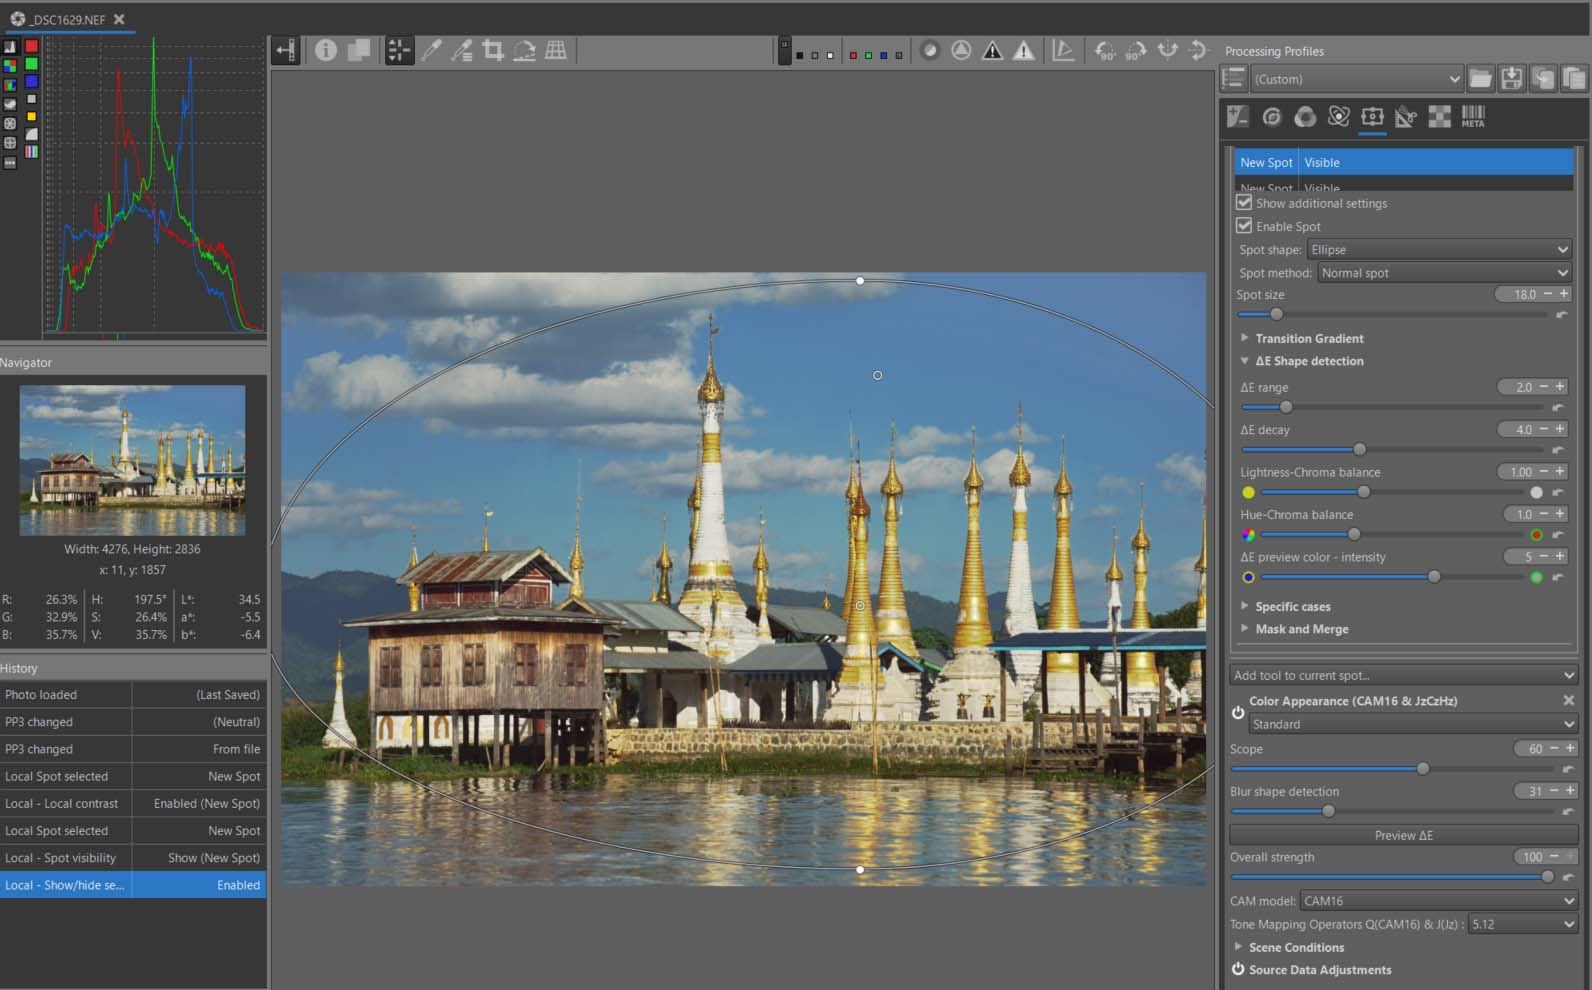
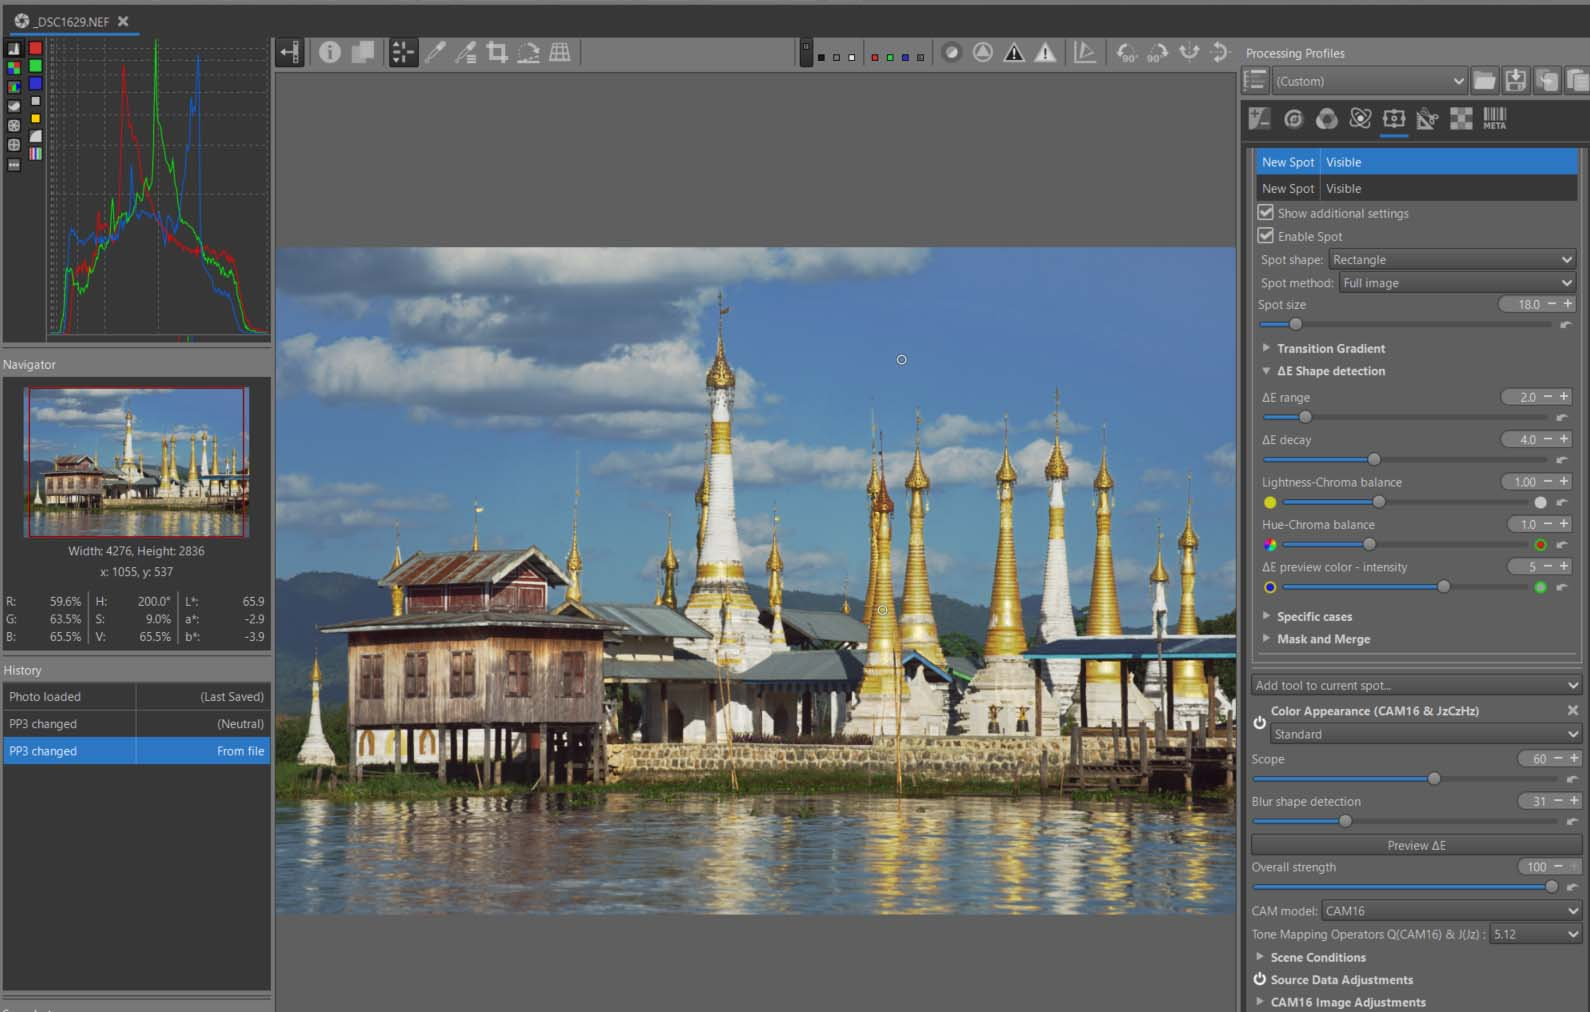
Small changes

diff --git a/content/Tutorials/index.md b/content/Tutorials/index.md
@@ -1776,7 +1776,7 @@ The 'Dehaze' system designed by Ingo Weirich (thanks to him) suggests in some ca
 
 + Try the "Dehaze" checkbox; you'll see the sliders move to the right, the histogram expands, especially to the left (the shadow areas), and the image is brighter and more colorful: Red:+2, Green 1:+26, Green 2:+26, Blue:+14.
 + Disabled Dehaze Checkbox 
-+ Increase slightly the 2 Green (Grren 1 & Grren 2) to 28, to reduce artifacts
++ Increase slightly the 2 Green (Green 1 & Green 2) to 28, to reduce artifacts
 + Be **very careful**, these settings are very sensitive and can contribute to making the images unusable.
 
 [Raw Black Points](/raw_black_points/)
@@ -2027,7 +2027,7 @@ A black color indicates that there are no changes. The greater the intensity (lu
 </figure>
 
 Note:
-* Normal spot
+* Full image
 * In Settings : ΔE decay set to 4 - to avoid artifacts in sky
 * Scope = 60
 * Blur shape detection set to 31 - to avoid artifacts and out of gamut.